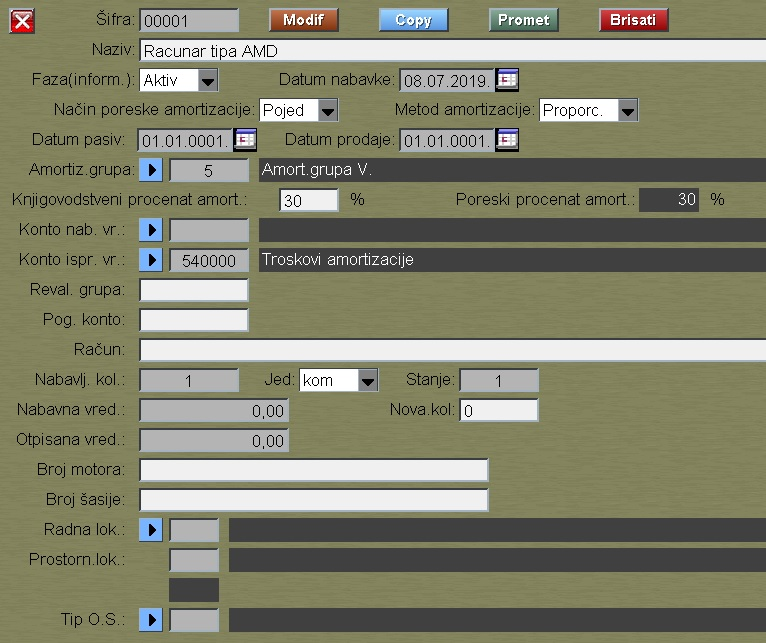
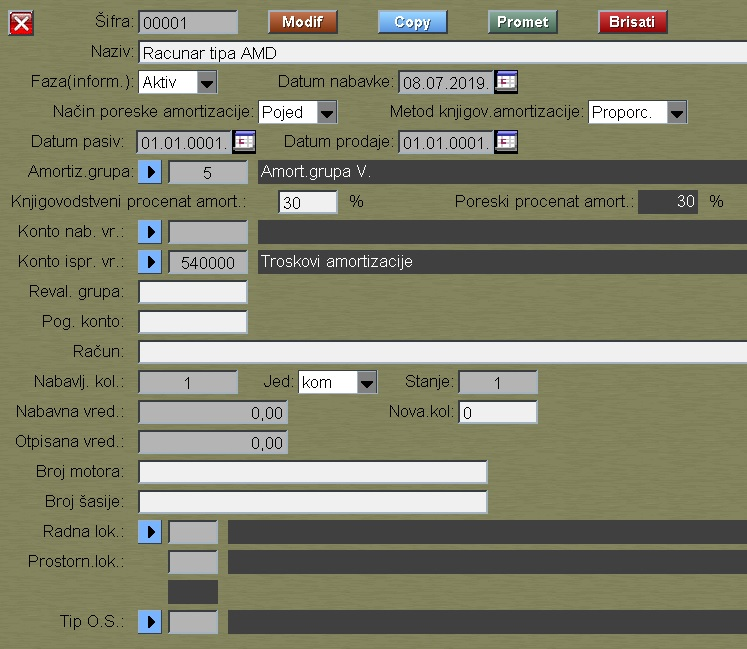
javitas os

diff --git a/camp2_sr/r1_sr/mk009_sr/mk009_sr.md b/camp2_sr/r1_sr/mk009_sr/mk009_sr.md
@@ -4,11 +4,14 @@ Program "Osnovno sredstvo" se poziva iz menija [Alati](../r1_sr.md)
 
 ![Image](os_pod01.jpg)
 
-Metod amortizacije može biti:
+Metod knjigovodstvene amortizacije može biti:
 - Proporcionalna , kada je osnovica nabavna vrednost.
 - Degresivna . kada je osnovica ostatak vrenosti.
 
-Poresku amortizaciju kalkuliše u dve etape, posebno za 
+Metod poreske amortizacije je definisan u programu 
+[Amortiz-grupe](../mk013_sr/mk013_sr.md).
+
+Poresku amortizaciju program kalkuliše posebno za grupe:
 - Pojedinačno (nabavka od 01.01.2019, pojedinačna kalkulacija)
 - Grupno (na starim karticama, ali i ovde imamo i pojed.vrednosti)
 
